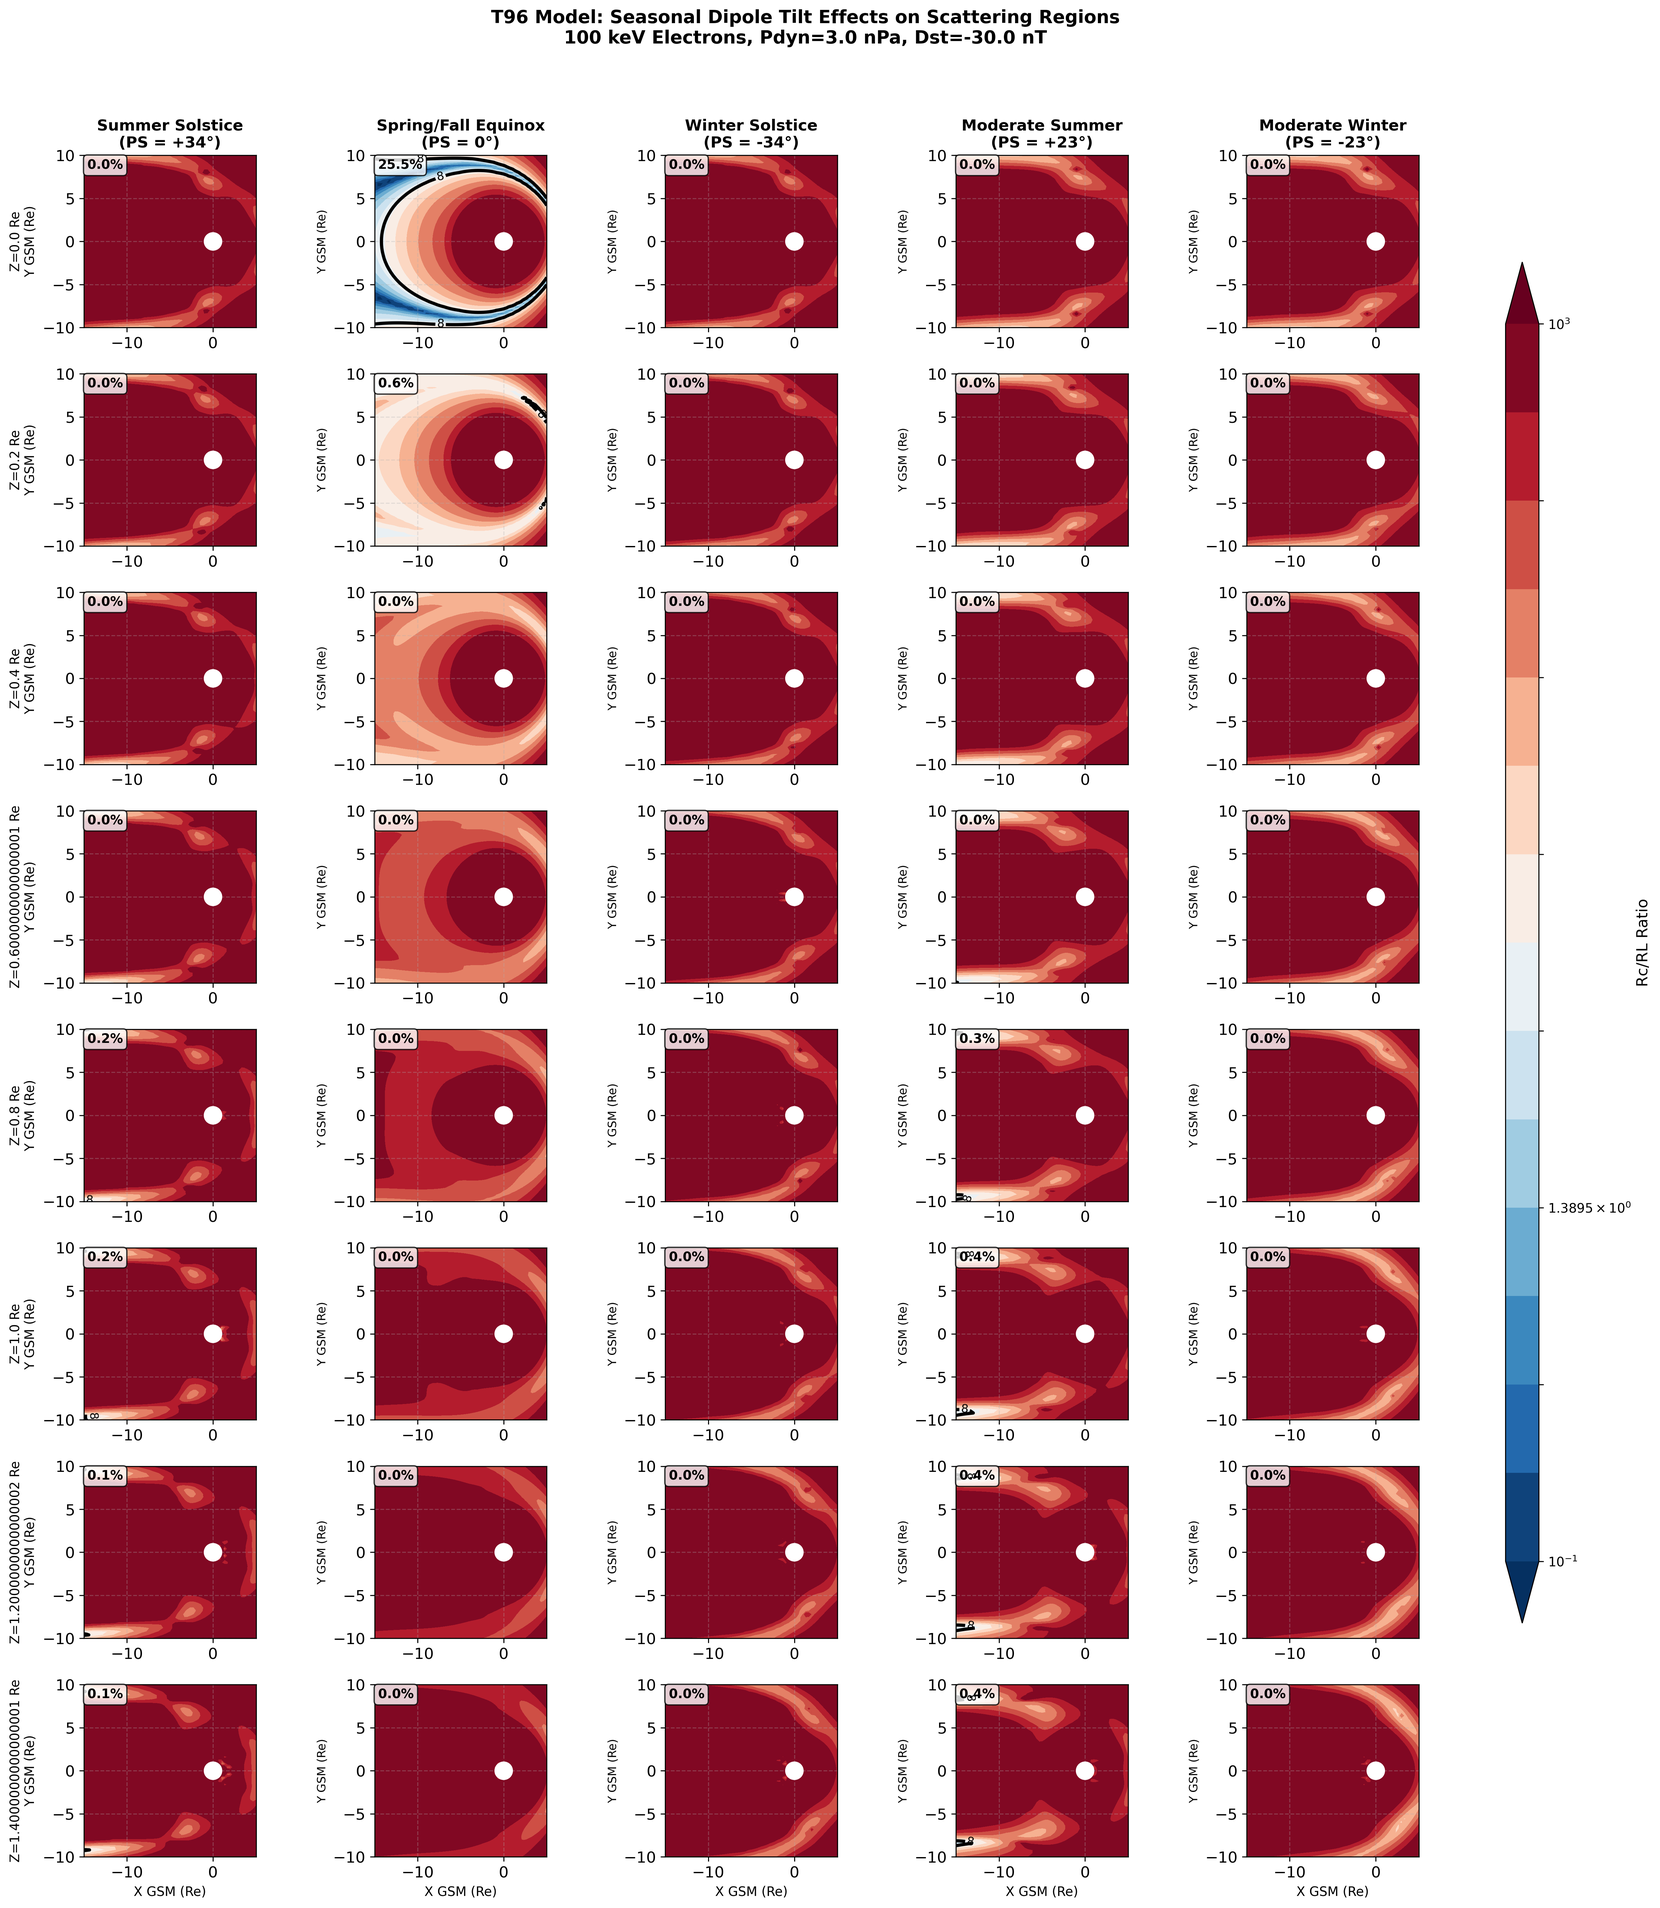
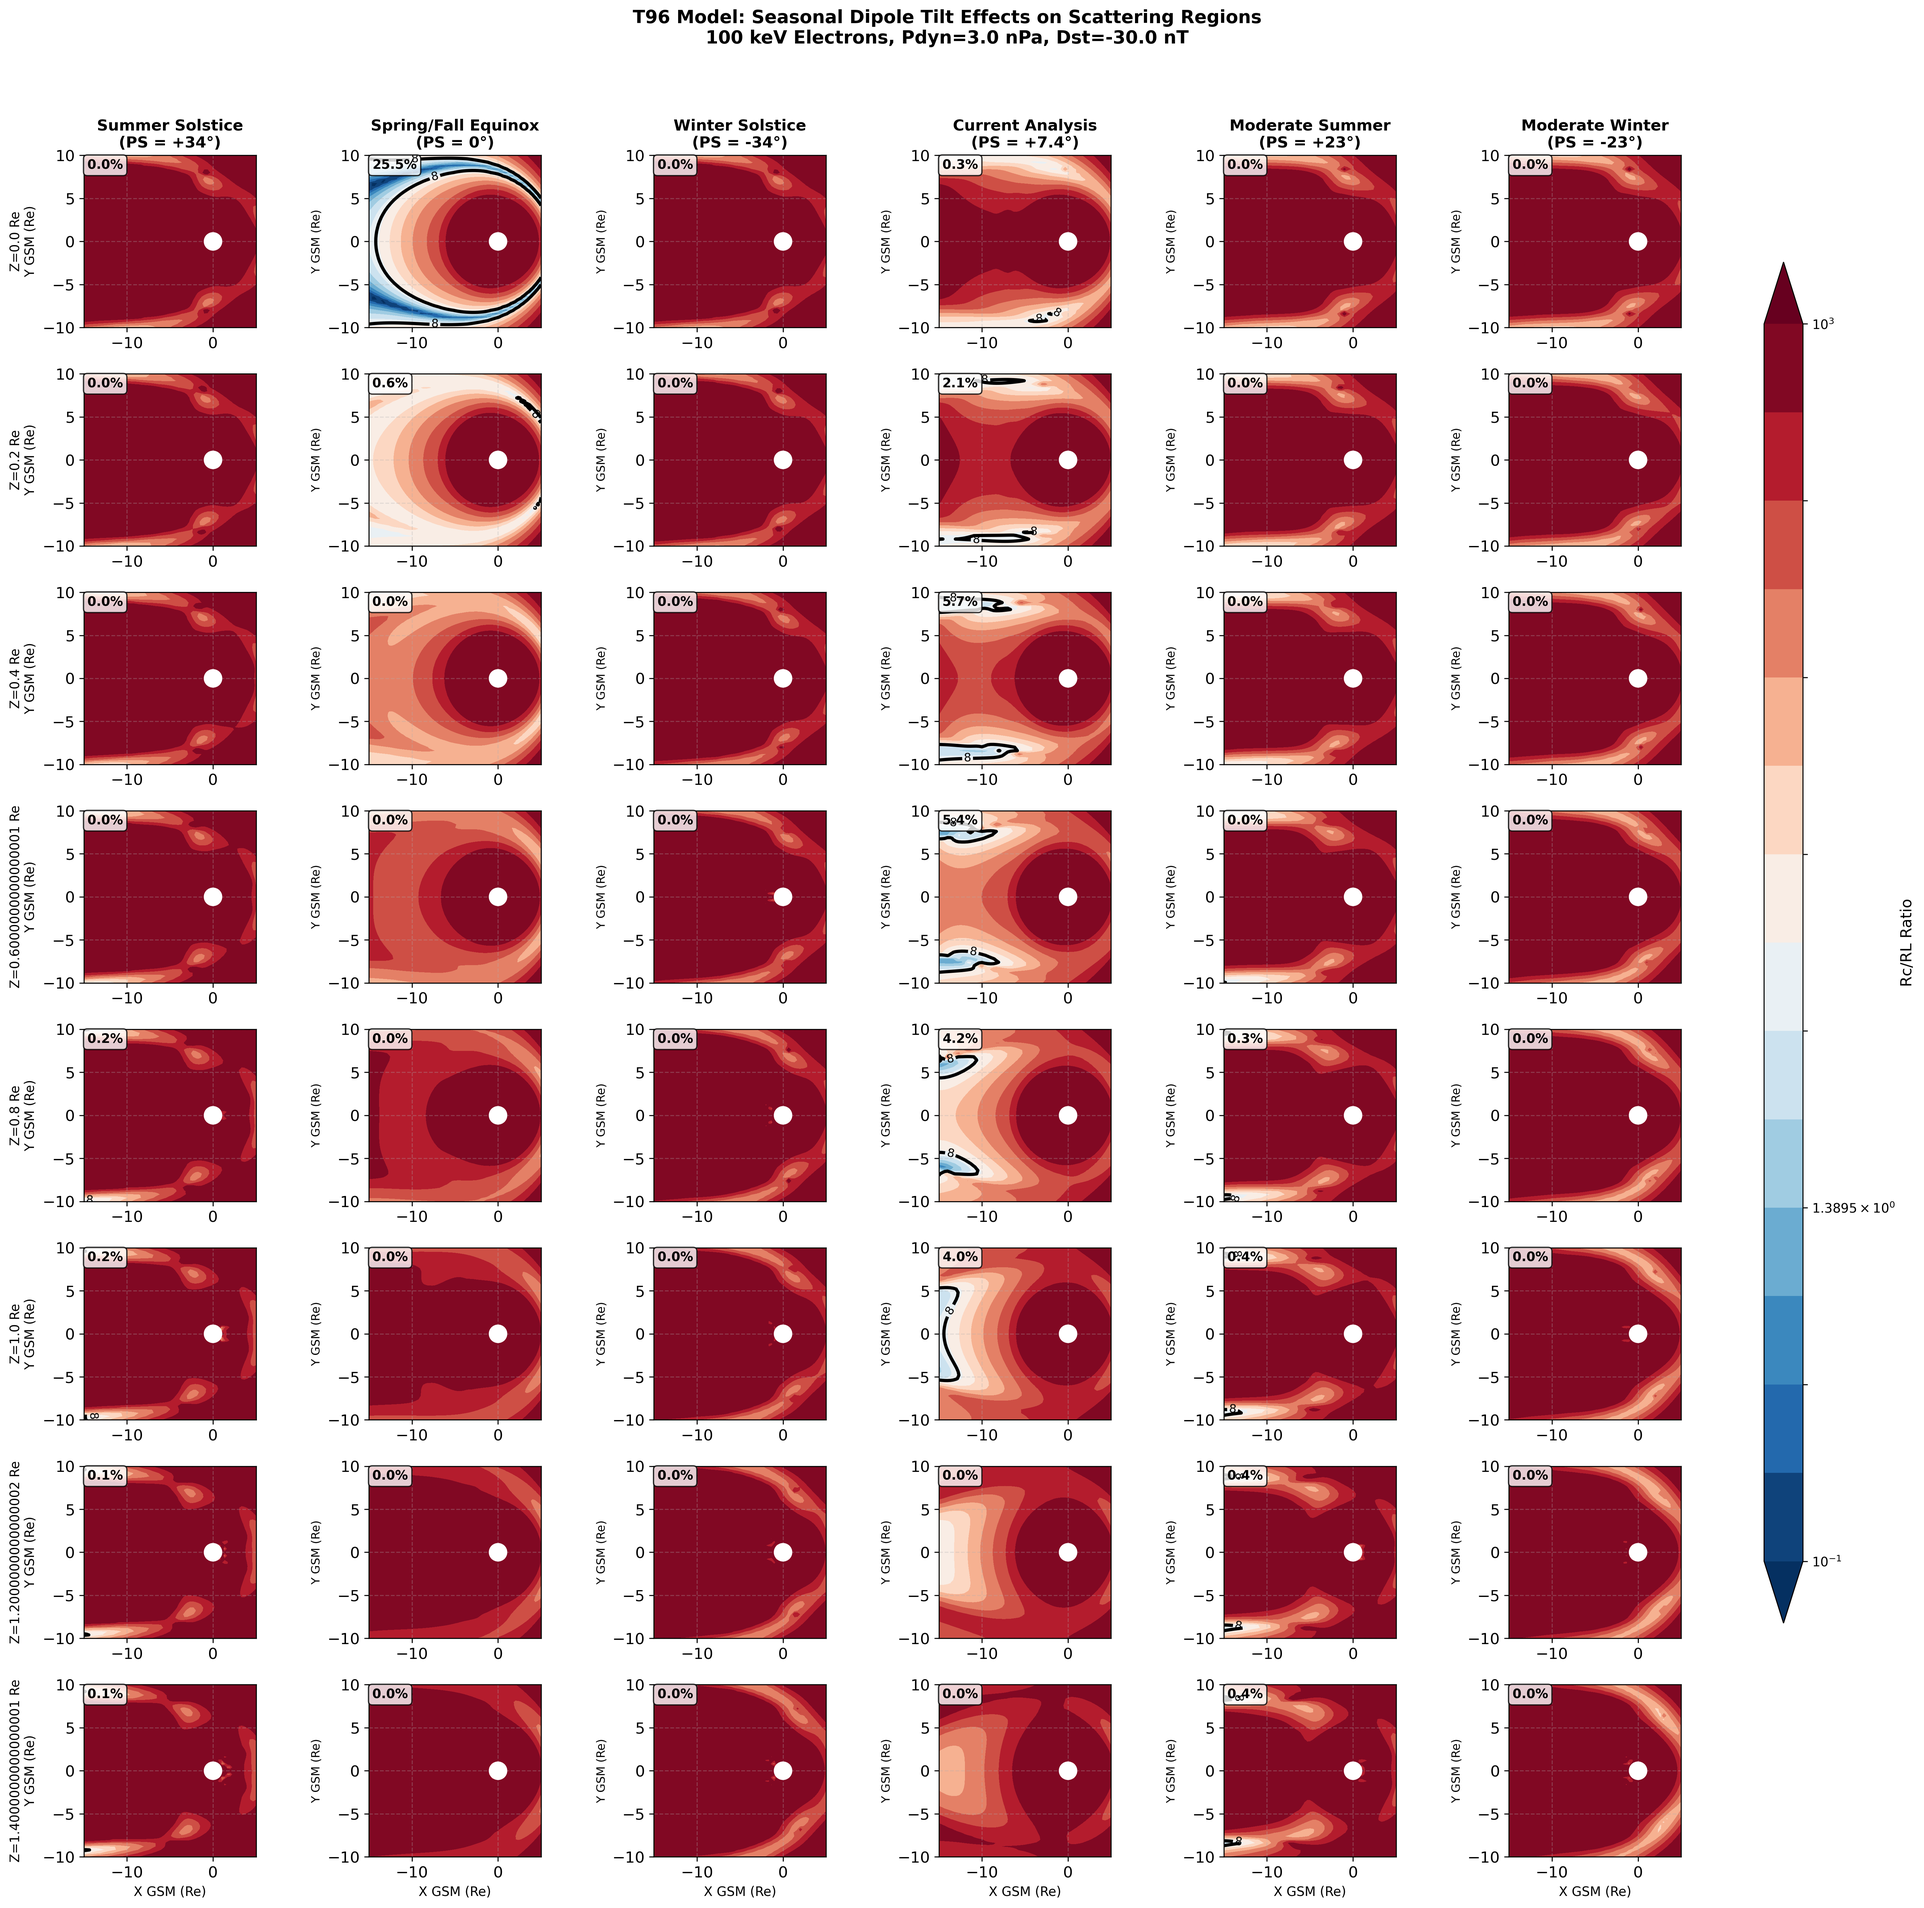
feat: Add current analysis tilt condition to seasonal comparison
- Added September 13, 2020 (PS = +7.4°) to fig19 seasonal comparison
- Shows how the current analysis date fits into seasonal variations
- Peak scattering occurs at Z = 0.4-0.6 Re due to slight positive tilt
- Expanded figure width to accommodate 6 columns
- Updated documentation to explain current analysis condition

🤖 Generated with [Claude Code](https://claude.ai/code)

diff --git a/curvature_scattering_threshold_analysis/curvature_scattering_analysis.py b/curvature_scattering_threshold_analysis/curvature_scattering_analysis.py
@@ -2469,6 +2469,7 @@ def analyze_t96_seasonal_tilt():
         ("Summer Solstice\n(PS = +34°)", np.radians(34)),
         ("Spring/Fall Equinox\n(PS = 0°)", np.radians(0)),
         ("Winter Solstice\n(PS = -34°)", np.radians(-34)),
+        ("Current Analysis\n(PS = +7.4°)", ps),  # Use the actual ps value from main analysis
         ("Moderate Summer\n(PS = +23°)", np.radians(23)),
         ("Moderate Winter\n(PS = -23°)", np.radians(-23))
     ]
@@ -2484,7 +2485,7 @@ def analyze_t96_seasonal_tilt():
     n_rows = len(z_levels_seasonal)
     n_cols = len(seasonal_tilts)
     fig_height = 2.5 * n_rows + 1
-    fig, axes = plt.subplots(n_rows, n_cols, figsize=(18, fig_height))
+    fig, axes = plt.subplots(n_rows, n_cols, figsize=(21, fig_height))  # Increased width for 6 columns
     
     # Create XY grid
     x_grid_seasonal = np.linspace(-15, 5, 61)

diff --git a/curvature_scattering_threshold_analysis/README.md b/curvature_scattering_threshold_analysis/README.md
@@ -336,6 +336,7 @@ The seasonal variation of Earth's dipole tilt significantly affects scattering r
 - **Summer Solstice (PS = +34°)**: Minimal scattering at all Z heights due to the current sheet being tilted above the equatorial plane
 - **Equinoxes (PS = 0°)**: Maximum scattering at Z = 0 (25.5%) with the current sheet aligned with the equatorial plane
 - **Winter Solstice (PS = -34°)**: Minimal scattering as the current sheet is tilted below the equatorial plane
+- **Current Analysis (PS = +7.4°, Sept 13, 2020)**: Peak scattering at Z = 0.4-0.6 Re (5.7%), showing how the current sheet is slightly above the equatorial plane
 - **Moderate Seasons (PS = ±23°)**: Intermediate behavior with some scattering at higher Z levels
 
 #### Temporal Evolution Throughout the Year
